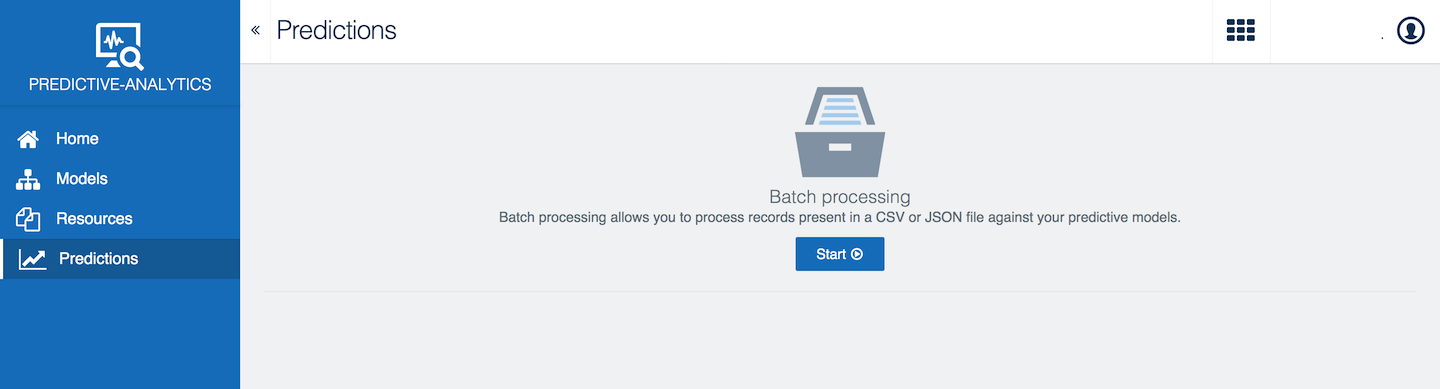
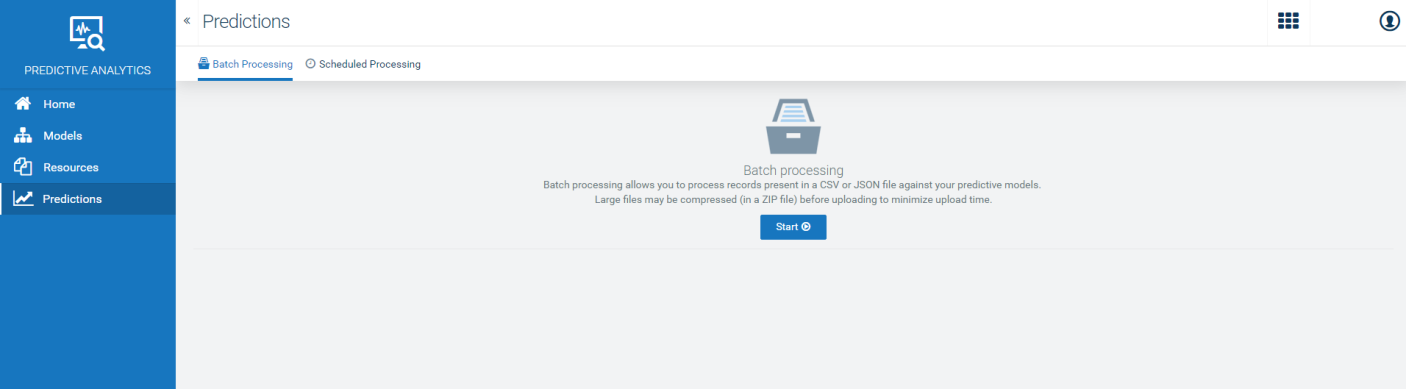
new webapp changes for job scheduling feature

diff --git a/content/predictive-analytics/web-app-bundle/processing-data.md b/content/predictive-analytics/web-app-bundle/processing-data.md
@@ -10,11 +10,12 @@ Click **Predictions** in the navigator, to open the **Predictions** page.
 
 ![Predictions](/guides/images/zementis/zementis-predictions.png)
 
-### Running the batch process
+### Batch Processing
+The **Batch Processing** tab allows you to process data records supplied to the model in a CSV or JSON file. The records are processed in batches. It also allows you to pass on image data as a JPEG or PNG file for processing.
 
-Currently, the **Predictions** page allows you to process data records supplied to the model in a CSV or JSON file. The records are processed in batches. It also allows you to pass on image data as a JPEG or PNG file for processing.
+The **Batch Processing** page is primarily targeted for testing the accuracy of your predictive models by applying it against your test data. Hence, it is expected that you know the predicted outputs beforehand.
 
-The **Predictions** page is primarily targeted for testing the accuracy of your predictive models by applying it against your test data. Hence, it is expected that you know the predicted outputs beforehand.
+#### Running the batch process
 
 To run the batch process, perform the following steps:
 
@@ -30,7 +31,7 @@ To run the batch process, perform the following steps:
  
 After the processing has been completed, you will see a corresponding notification.
 
-### Viewing the results
+#### Viewing the results
 
 Click **Show Results** to preview the scored or processed results. 
 
@@ -52,3 +53,54 @@ Click the cogwheel icon <img src="/guides/images/zementis/zementis-cogwheel-icon
 
 Click the file icon <img src="/guides/images/zementis/zementis-file-icon.png" alt="File" style="display:inline-block; margin:0"> in front of a row, to download a full execution trace, showing what exactly happened when that record was applied against the model. In this way, you can investigate why the outputs did not match.
 
+### Scheduled Processing
+The **Scheduled Processing** tab allows you to schedule jobs for scoring device measurements against your predictive models.
+
+The job scheduler can be used to trigger periodic jobs on data captured from devices. Periodic executions of such jobs can be useful when aggregate information on model's predictions is required for a desired time period.
+
+#### Scheduling a job
+
+To schedule a new job, perform the following steps:
+
+1. Click **Create Job** in the **Scheduled Processing** page. 
+2. In the **Job Config** wizard, enter the name and description of the job you want to create. Also, select a target device/device-group from the dropdown. The dropdown lists maximum 2000 devices or groups. Once done, select a target model which you want to use for scoring the data captured from your chosen device or device-group. The dropdown list shows all models which you have uploaded to the **Models** page. <br>
+![Scheduled process 1](/guides/images/zementis/zementis-jobconfig-info.png)
+<br>Click **Next** to proceed. 
+3. Every device would have various measurement which are persisted in Cumulocity. In the **Mappings** section, map which measurement of the device should be fed as data input to the model.<br>
+![Scheduled process 2](/guides/images/zementis/zementis-jobconfig-mapping.png)
+<br>Click **Next** to proceed.
+4. Set the schedule of the job by choosing the frequency for the job followed by when it should run. Also, you need to choose the range of past data which should be used when the job is executed.
+![Scheduled process 3](/guides/images/zementis/zementis-jobconfig-schedule.png)
+<br>Click **Finish** to schedule the job that you just configured.
+
+>**Info**:
+<br>1. For schedule of Periodic frequency, a CRON expression is generated and used by the scheduler.
+<br>2. The data range chosen for the schedule must not exceed 24 hours.
+<br>3. For schedule of Once frequency, you need to choose the date when the job should run. Also, you need to specify the data range from the past which should be used when the job is executed.
+
+After the job is scheduled, you will see a corresponding notification.
+
+#### Viewing the scheduled jobs
+
+![Scheduled Jobs](/guides/images/zementis/zementis-scheduled-jobs.png)
+
+By design, the **Scheduled Processing** page will preview all the scheduled jobs in a paginated manner, displaying 10 jobs per page. 
+Click any link under **NAME** column  to view the configuration of that specific job. Click the delete icon of any job to remove the job. 
+
+#### Viewing the execution results of jobs
+
+To view the execution results of any job, click on the history icon associated to that job in the **My Jobs** section of the **Scheduled Processing** page.
+
+![Job History](/guides/images/zementis/zementis-job-execution-history.png)
+
+By design, the execution results page will preview all the executions of the job in a paginated manner, displaying 10 executions per page. 
+For executions with status **Warning** or **Failure**, hover on the status to see the detailed reason behind the status. Click **Back** to see all the scheduled jobs.
+
+#### Viewing the inferences of a job execution
+
+To view the inferences of any execution of a job, click on the details icon associated to that execution in the **Execution Results** page.
+
+![Execution Inferences](/guides/images/zementis/zementis-execution-inferences.png)
+
+The inferences pop-up would show two different types of charts, a histogram plotting all the model's continuous outputs and a piechart plotting the model's categorical outputs.
+The inferences are shown in a paginated manner, displaying 2000 executions per page. For executions containing device groups, it will also allow you to shuffle between different devices which were part of that execution.
